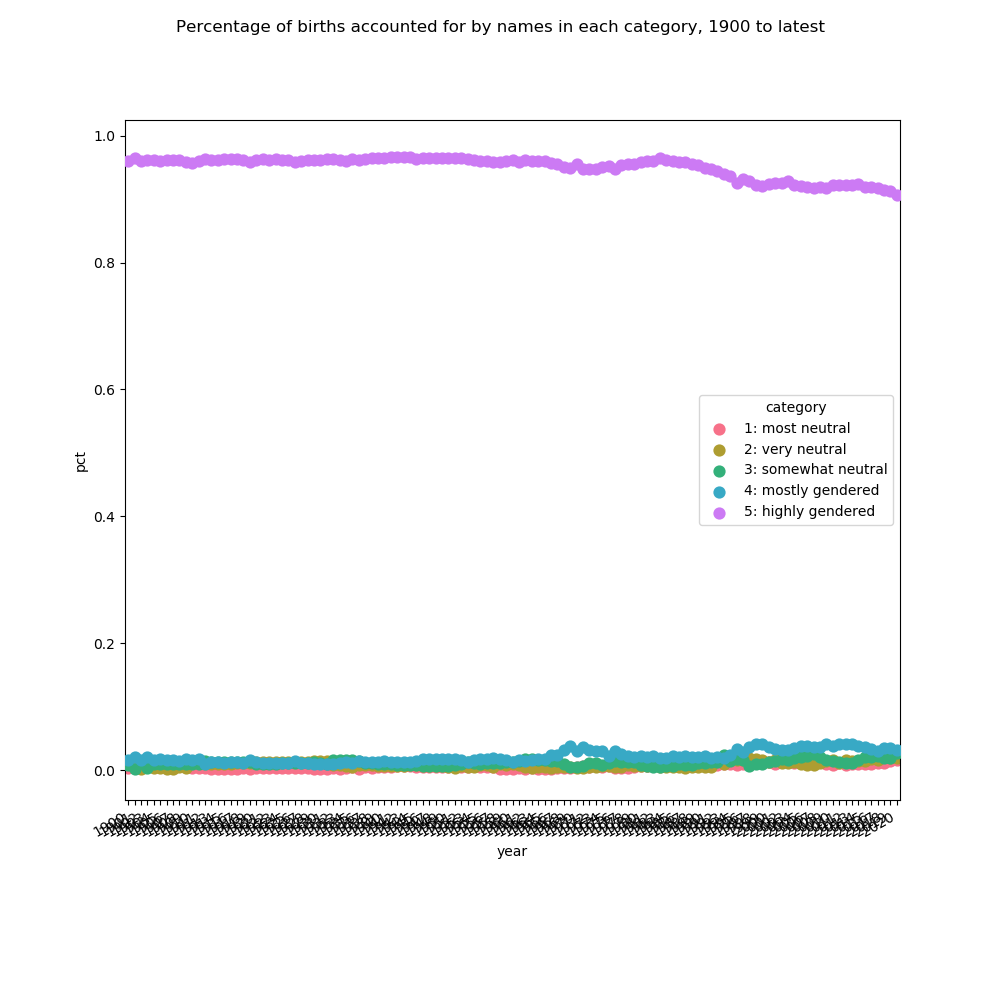
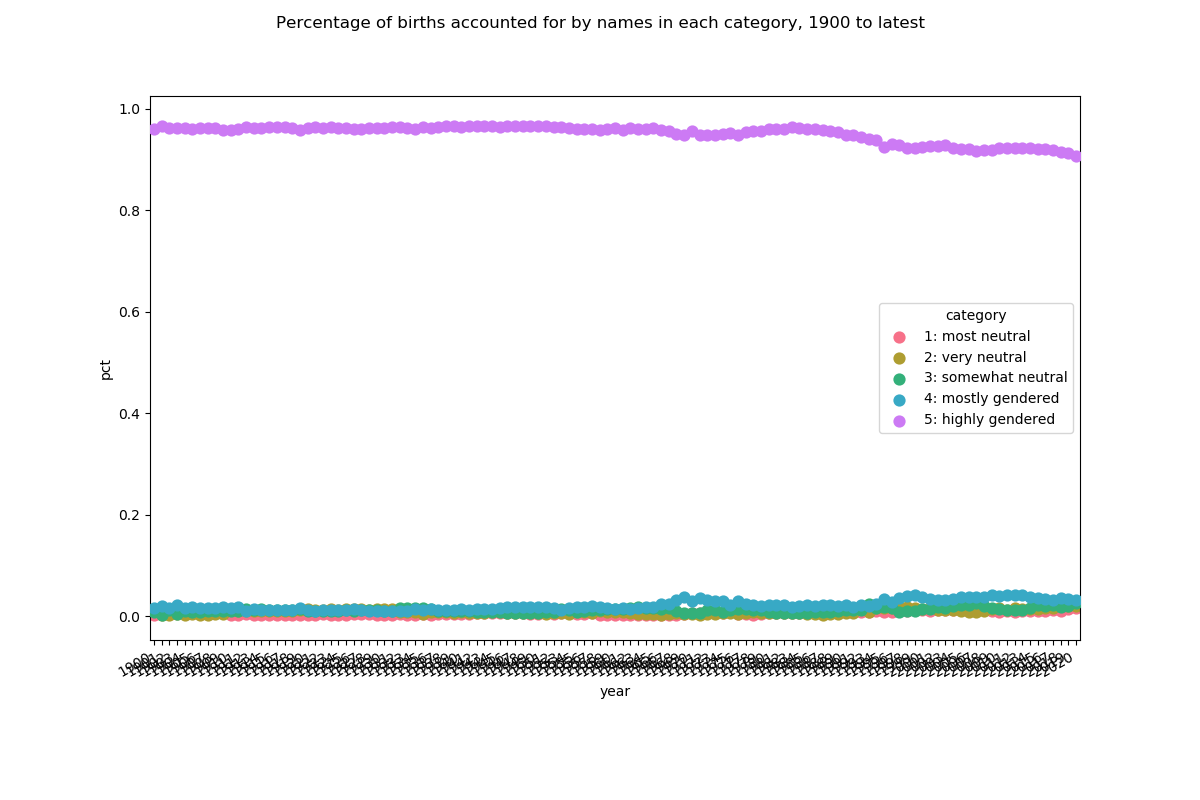
change plot size

diff --git a/task.py b/task.py
@@ -66,13 +66,11 @@ class DataManager:
 
 
 class Plotter(DataManager):
-    _fig_size = 8
-
     def plot_all_categories(self):
         plot = sns.pointplot(x='year', y='pct', hue='category', data=self.summary, palette='husl')
         fig = plot.get_figure()
         fig.autofmt_xdate()
-        fig.set_size_inches(self._fig_size, self._fig_size)
+        fig.set_size_inches(12, 8)
         fig.suptitle('Percentage of births accounted for by names in each category, 1900 to latest')
         fig.savefig('img/categories.png')
 
@@ -81,7 +79,7 @@ class Plotter(DataManager):
             ~self.summary.category.str.startswith('5')], palette='husl')
         fig = plot.get_figure()
         fig.autofmt_xdate()
-        fig.set_size_inches(self._fig_size, self._fig_size)
+        fig.set_size_inches(12, 8)
         fig.suptitle('Percentage of births accounted for by gender-neutral names in each category, 1900 to latest')
         fig.savefig('img/categories_neutral.png')
 
